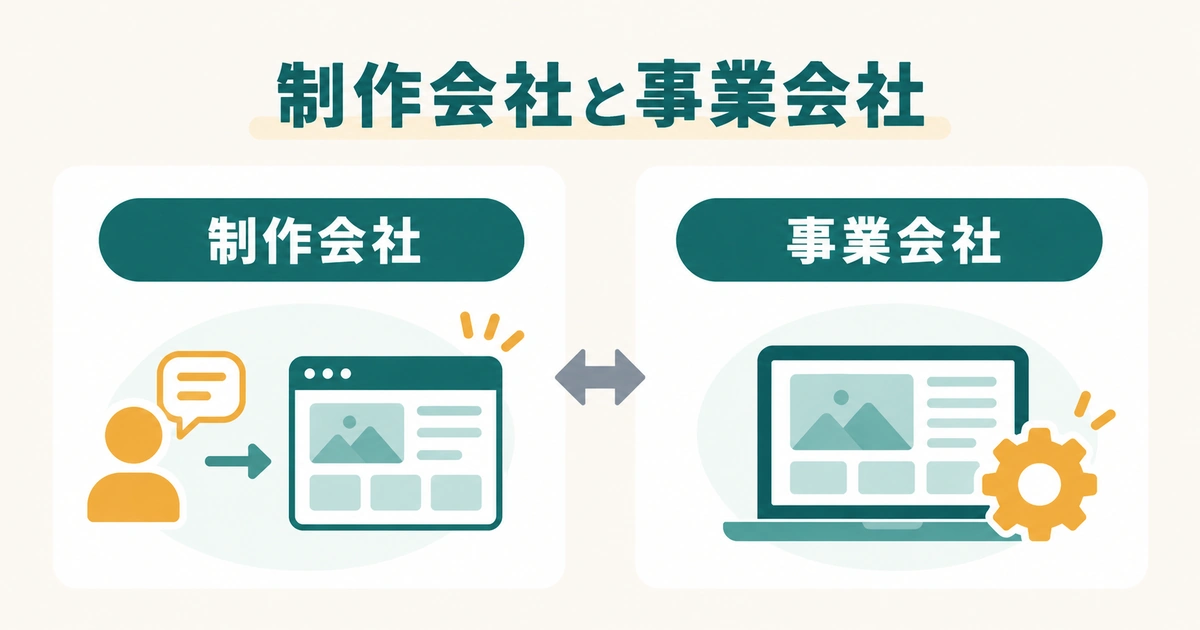
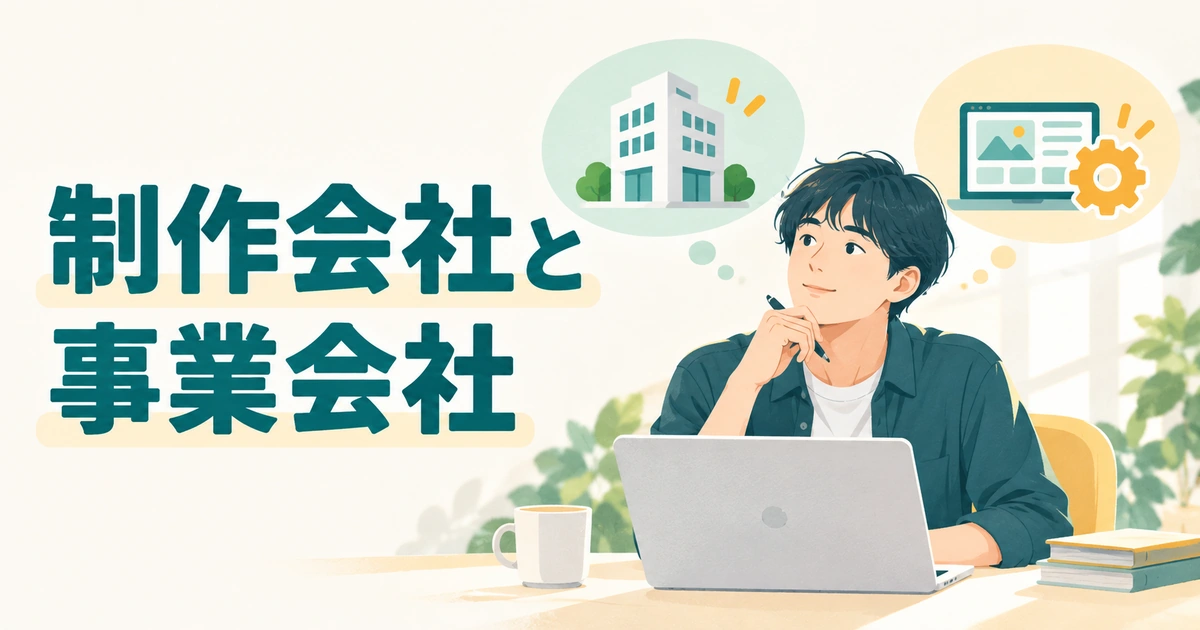
fix: update article 046 cover to unified editorial style

diff --git a/data/article-runs/2026-09-27-046-image-plan.md b/data/article-runs/2026-09-27-046-image-plan.md
@@ -5,9 +5,11 @@ slug：`second-new-grad-web-agency-vs-inhouse`
 
 | 枠 | 読者に伝える結論 | 型と構図 | 配置 | 正式ファイル名 | alt案 |
 | --- | --- | --- | --- | --- | --- |
-| card | 会社の種類だけでなく担当業務を比べる | 制作会社と事業会社を2列で表現する | OG・一覧 | `second-new-grad-web-agency-vs-inhouse-card.webp` | Web制作会社と事業会社を仕事内容で比較する記事のアイキャッチ |
+| card | 制作会社と事業会社の違いを仕事場面から捉える | 左に見出し、右に選択肢を比較する20代の人物と2つの象徴モチーフを置く編集イラスト | OG・一覧 | `second-new-grad-web-agency-vs-inhouse-card.webp` | Web制作会社と事業会社を仕事内容で比較する記事のアイキャッチ |
 | 01 | 二つの会社形態の違いを知る | 顧客案件と自社サービスの2列比較 | 「制作会社と事業会社は何が違う」冒頭 | `second-new-grad-web-agency-vs-inhouse-01.webp` | 顧客案件を作る制作会社と自社サービスに関わる事業会社の比較図 |
 | 02 | 担当する工程を求人で確認する | 企画・制作・運用の3工程を横並びにする | 「担当工程を見る」冒頭 | `second-new-grad-web-agency-vs-inhouse-02.webp` | Webの企画、制作、運用のうち担当工程を確認する図 |
 | 03 | 育成環境は最初の仕事とレビュー相手で確かめる | 最初の仕事・レビュー担当・相談先の3項目チェック | 「育成環境は」冒頭 | `second-new-grad-web-agency-vs-inhouse-03.webp` | Web系求人の最初の仕事、レビュー担当、相談先を確認する図 |
 
 card は1200×630、本文画像は各1200×675。2026-09-27にDriveの4画像を目視確認し、寸法・ファイル名・記事内容との整合を確認済み。本文へ01/02/03をalt付きで配置した。
+
+2026-09-27 追記：ユーザーが新しい編集イラスト型cardを生成。これを1200×630 WebPに変換し、Drive images/の既存card（ファイルID維持）と本PRのcardファイルを差し替え。元PNGはDrive originals/に保存。本文図解01〜03および記事原稿は変更しない。新headに対するCI・Vercel・記事46の目視プレビュー承認を再確認してから公開する。
